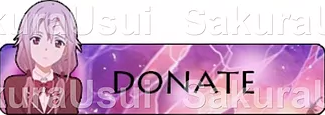
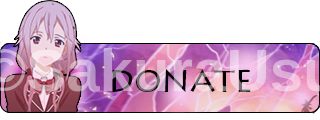
updated panels

diff --git a/lib/styles/build/main.css b/lib/styles/build/main.css
@@ -246,13 +246,14 @@ span.bold-text {
 }
 #overlays .gallery img, #panels .gallery img, .artwork .gallery img {
   height: auto;
-  box-shadow: grey 5px 5px 10px;
-  transition: filter 0.5s;
+  background-color: rgba(0, 0, 0, 0);
+  filter: drop-shadow(5px 5px 5px #222);
+  transition: filter 0.25s;
   cursor: pointer;
   user-select: none;
 }
 #overlays .gallery img:hover, #panels .gallery img:hover, .artwork .gallery img:hover {
-  filter: brightness(125%);
+  filter: drop-shadow(2px 2px 2px #222) brightness(125%);
 }
 
 #overlays img:nth-child(3), #overlays img:nth-child(4) {

diff --git a/lib/styles/scss/main.scss b/lib/styles/scss/main.scss
@@ -225,12 +225,13 @@ span.bold-text {
         justify-content: space-between;
         img {
             height: auto;
-            box-shadow: grey 5px 5px 10px;
-            transition: filter 0.5s;
+            background-color: rgba(0,0,0,0);
+            filter: drop-shadow(5px 5px 5px #222);
+            transition: filter 0.25s;
             cursor: pointer;
             user-select: none;
             &:hover {
-                filter: brightness(125%);
+                filter: drop-shadow(2px 2px 2px #222) brightness(125%);
             }
         }
     }
